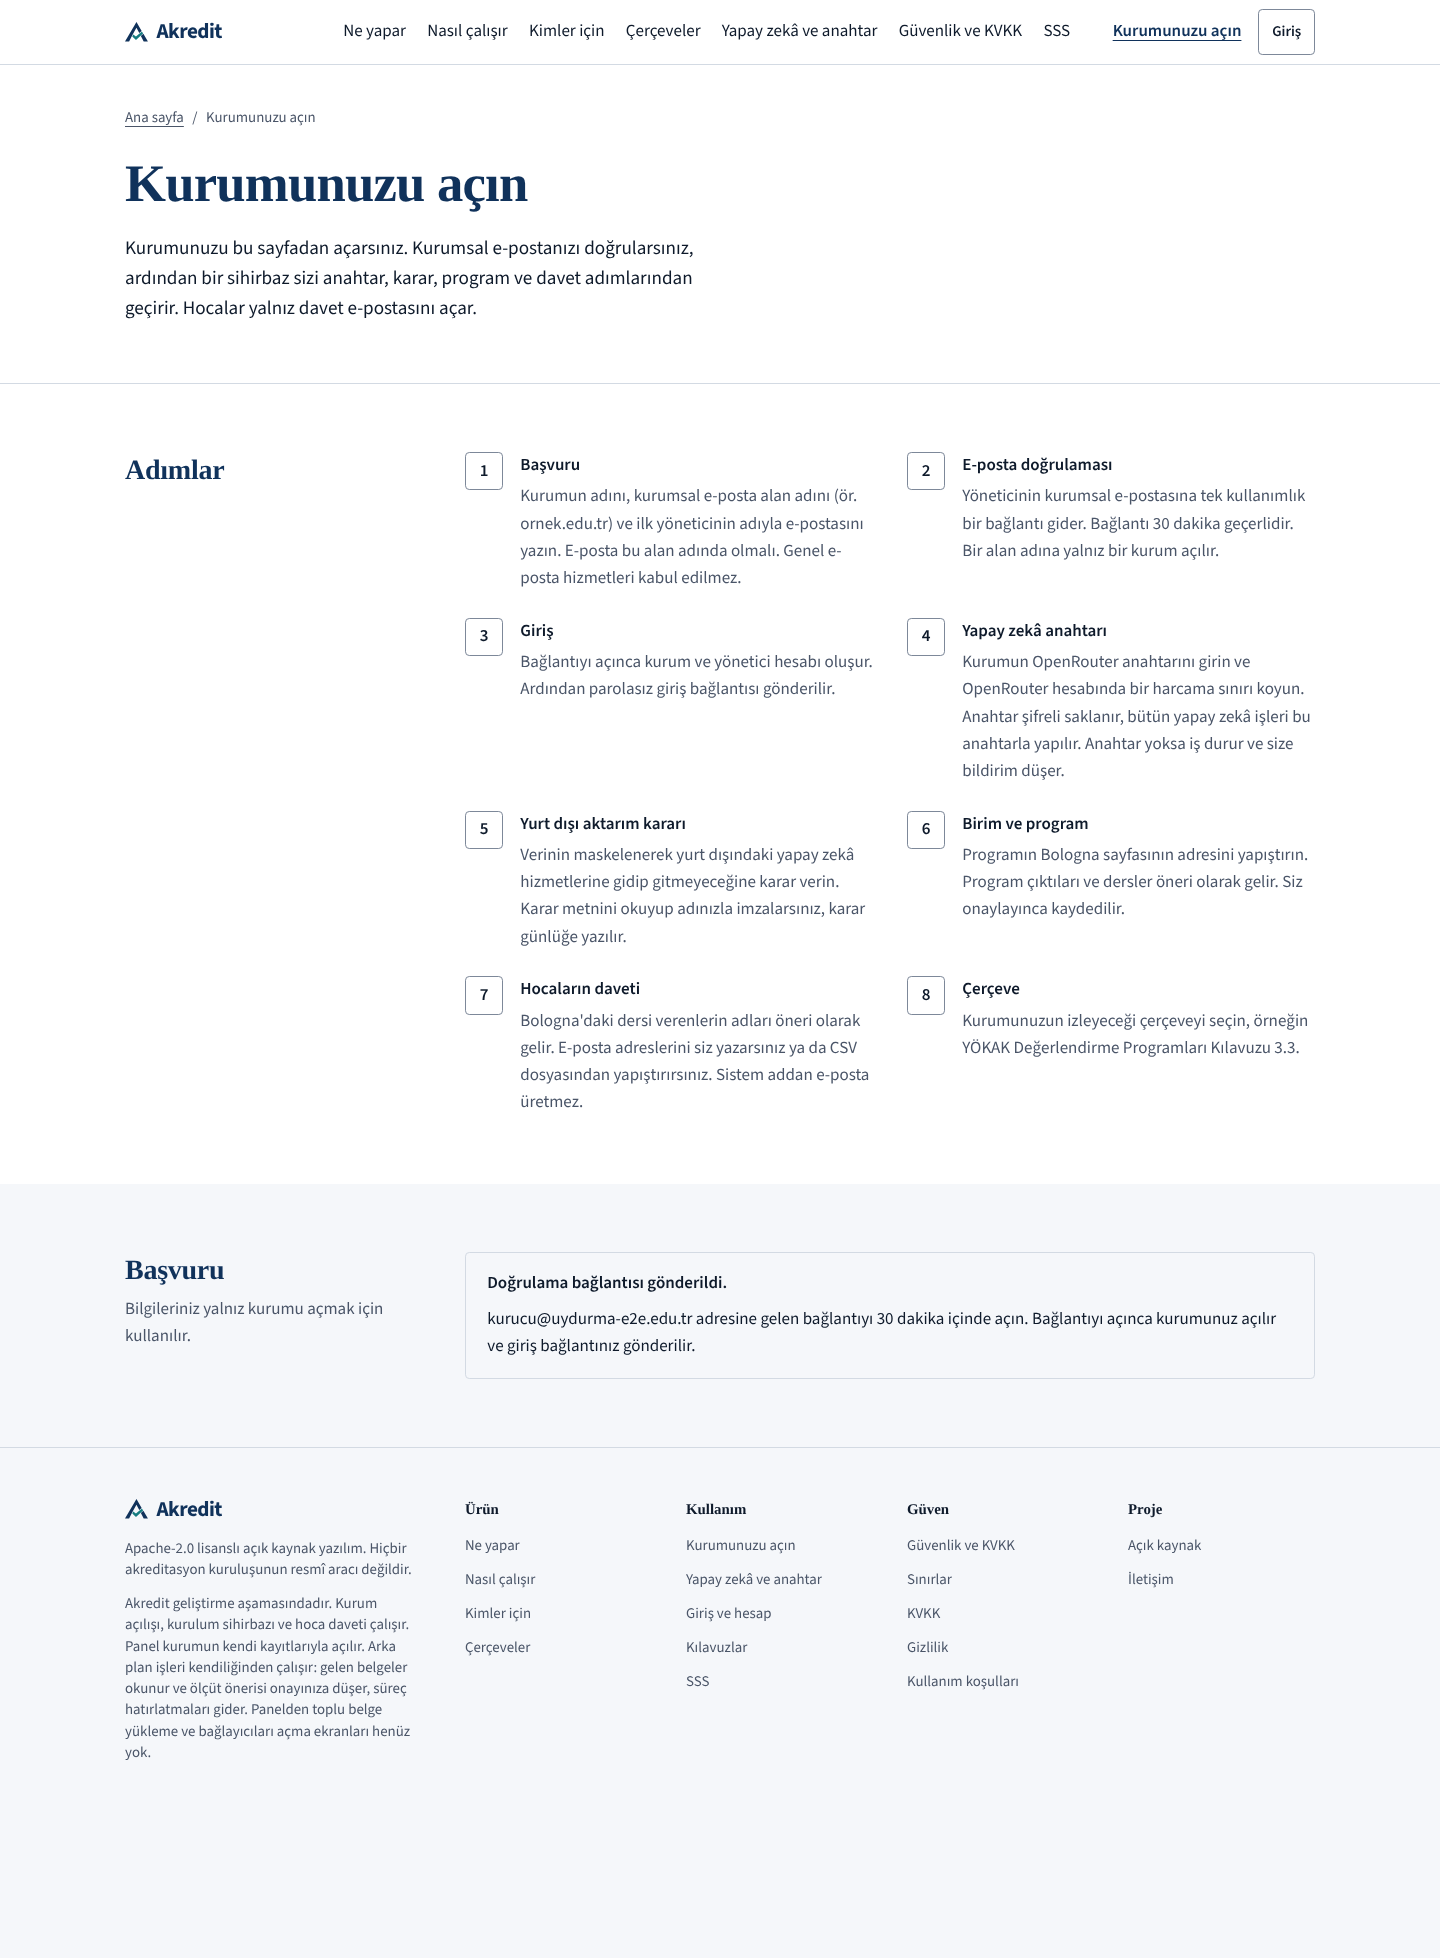
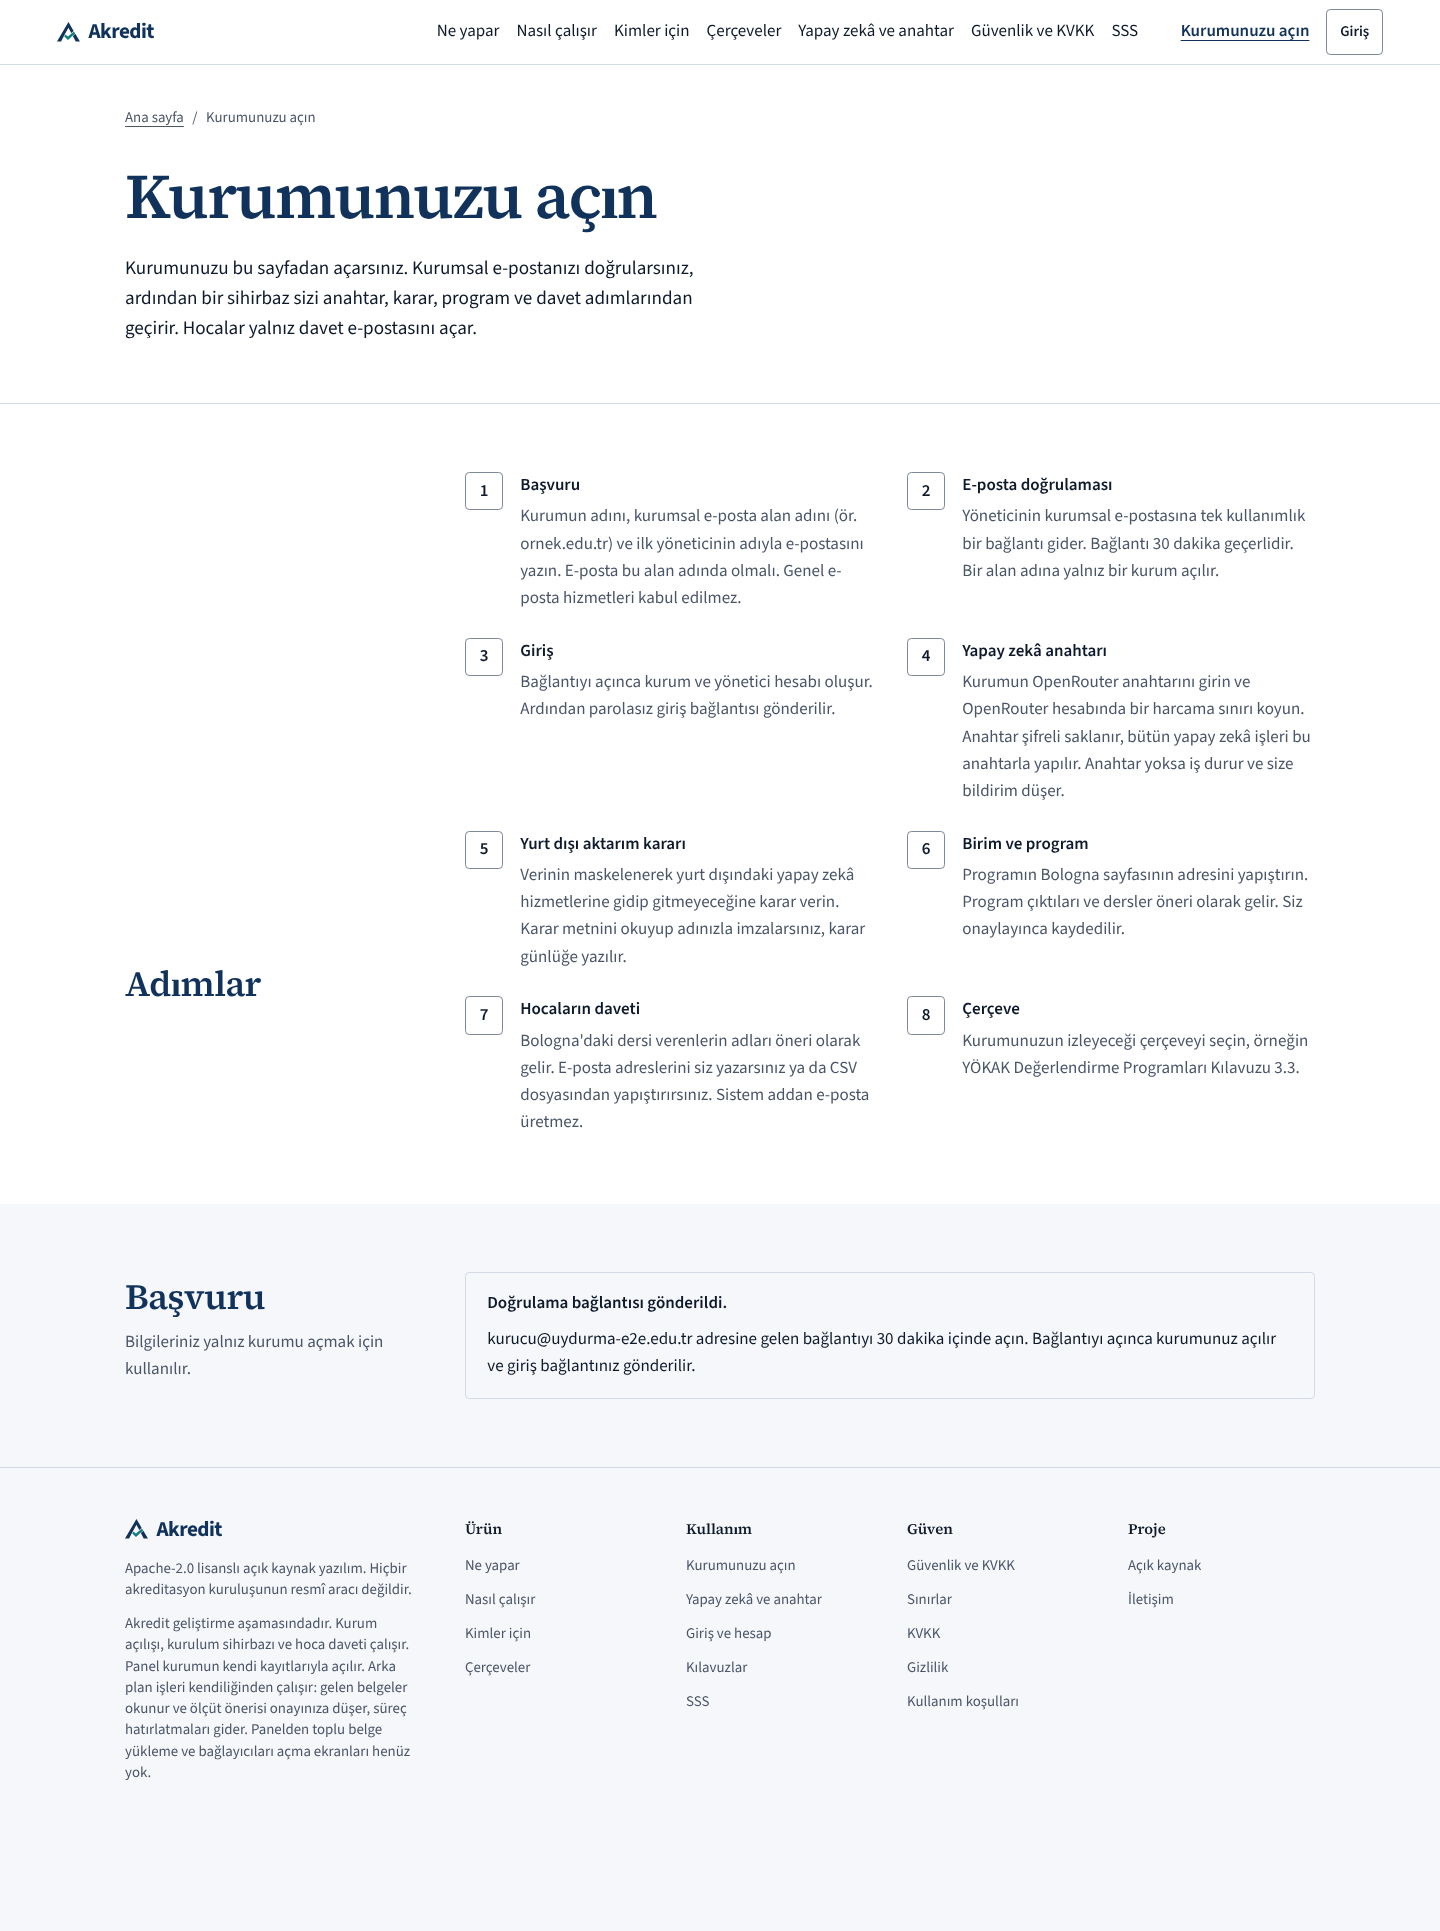
Tasarım v2 kararlarını yaz, hareket ve dayanak vurgusunu sına

diff --git a/apps/web/src/site/site.test.ts b/apps/web/src/site/site.test.ts
@@ -1,4 +1,6 @@
 // Site içeriğinin koddaki gerçekle tutarlılığı ve yapılandırılmış veri.
+import { readFileSync } from "node:fs";
+import { join } from "node:path";
 import { ROLLER } from "@akredit/yetki";
 import { describe, expect, it } from "vitest";
 import { yokakOzeti } from "./cerceve-ozeti.ts";
@@ -58,5 +60,19 @@ describe("üst veri", () => {
     expect(turler).toEqual(["Organization", "BreadcrumbList", "FAQPage"]);
     expect(j["@graph"][2].mainEntity).toHaveLength(SSS.length);
     expect(yapisalVeri({ ...SAYFALAR.sss, ad: "</script>" })).not.toContain("</script>");
+  });
+});
+
+describe("hareket ve önizleme (tasarım v2)", () => {
+  const css = readFileSync(join(import.meta.dirname, "../app/globals.css"), "utf8");
+  it("önizleme hareketi, hareket azaltma tercihinde kapanır ve son durumu gösterir", () => {
+    const azalt = css.slice(css.indexOf("@media (prefers-reduced-motion: reduce)"));
+    for (const sinif of [".onizleme-kart", ".onizleme-onaylandi", ".onizleme-gunluk", ".onizleme-bekliyor"])
+      expect(azalt).toContain(sinif);
+    expect(azalt).toMatch(/\.onizleme-bekliyor\s*\{[^}]*visibility:\s*hidden/u);
+  });
+  it("dayanak vurgusu her dayanak numarası için tanımlı (1-9)", () => {
+    for (let n = 1; n <= 9; n++)
+      expect(css).toContain(`a[href="#dayanak-${n}"]:is(:hover, :focus-visible)) #dayanak-${n}`);
   });
 });

diff --git a/docs/tasarim/README.md b/docs/tasarim/README.md
@@ -81,7 +81,54 @@ alt metin ve adsız SVG, sol vurgu şeridi, koyu tema. `apps/web/src/site/site.t
 çerçeve sayıları, özgün başlık ve açıklama, canonical, JSON-LD. `apps/web/src/marka/kontrast.test.ts`: açık temadaki
 bütün renk çiftleri. `apps/web/e2e/erisilebilirlik.spec.ts`: axe ile WCAG 2.2 AA.
 
+## Tasarım v2: "bir tık daha etkileyici" (2026-10-28)
+
+Amaç: aynı palet, aynı iki yazı tipi, aynı imza öğesi (§, [n]) ile daha cesur bir ilk ekran. Kural kümesi değişmedi:
+açık tema, sol şerit yok, gradyan/cam/parıltı yok, gölge yok, köşe 2-4 px.
+
+- **Tipografik ölçek:** ana sayfa h1 2,6 → 4,35 rem (satır aralığı 1,03, harf aralığı -0,03 em); alt sayfa h1
+  3,75 rem; bölüm h2 2,1 rem. Hiyerarşiyi renk ya da süs değil, boy farkı taşır (kontrol listesi 14).
+- **Kahramanda gerçek ürün:** günlük kaydının yerine paneldeki öneri kartının sadeleştirilmiş çizimi
+  (`src/site/onay-onizleme.tsx`): risk etiketi, ÇK sağlanma hesabı (%71,4; eşik %60,0; 58 öğrenci), dayanak ve
+  içerik özeti, Onayla/Düzelt/Reddet. "Örnek veri" diye etiketli (kontrol listesi 18, 104).
+- **Anlam taşıyan hareket:** yükleme sonrası bir kez, yalnız CSS ile: Onayla basılır, durum "Onay bekliyor" →
+  "Onaylandı" olur, kart çerçevesi petrole döner, "Günlüğe eklendi" satırı eklenir. Ürünün tek cümlelik anlatısı budur
+  (kontrol listesi 17). `prefers-reduced-motion` tercihinde hiç oynamaz, son durum doğrudan görünür; ekran okuyucu son
+  durumu okur ("Onay bekliyor" `aria-hidden`). İstemci betiği eklenmedi.
+- **Dayanak vurgusu:** metindeki `[n]` üzerine gelince ya da klavyeyle odaklanınca sayfa sonundaki dipnot petrol
+  zeminle belirir, dipnota gelince metindeki numara belirir. Yalnız CSS `:has()`; betik yok.
+- **Ölçü şeridi (`Olculer`):** eşit genişlikli serif rakamlarla koddan sayılmış değerler: 14 ölçüt ve 46 alt ölçüt
+  (`yokakOzeti()`, `site.test.ts` sabitler), 6 adım (`AKIS`), örnek dönemdeki dokunuş (`DONEM_AKISI`). Her rakamın
+  yanında dayanak numarası. Ne yapar ve nasıl çalışır sayfa başlarında aynı şerit künye olarak durur. Rakamlar
+  `.sayilar` ve tablolarda `tabular-nums`.
+- **Belge ızgarası:** ilk ekranın arkasında, yalnız geniş ekranda, içerik ızgarasıyla hizalı on iki sütunluk ince
+  çizgiler (çizgi rengi %45). Yönetmelik ve rapor sayfasının dizgi ızgarası; süstür, `aria-hidden`.
+- **Bilinçli kırılmış ızgara:** ilk ekran 7/5 sütun; önizleme 5 rem aşağıdan başlar. Bölüm başlık sütunu geniş ekranda
+  yapışkandır (kenar notu gibi) ve § numarasının üstünde ince bir kural çizgisi vardır.
+- **Mikro etkileşim:** bağlantı altı çizgisi üzerine gelince 1 → 2 px; modül bağlantılarında çerçeve ve yazı
+  lacivertleşir, dokunma hedefi 44 px. Bütün geçişler tek eğriyle: `--egri: cubic-bezier(0.32, 0.72, 0, 1)`.
+
+### elayadesign/ai-design-skills'ten alınan ve alınmayan
+
+Kaynak: `skills/landing-page-design/SKILL.md`. Kontrol listesiyle çelişen her yerde kontrol listesi kazandı.
+
+Alınan: tek özel hareket eğrisi (`cubic-bezier(0.32,0.72,0,1)`, "varsayılan geçiş yok"); kahramanda gerçek ürün
+görseli ve kanıtın iddianın yanında durması ("proof next to the claim"); içerik gerçekçiliği (yuvarlak olmayan
+sayılar: %71,4, 58; uydurma marka yok); başlıkta `text-wrap: balance` (zaten vardı); tek kenarlı kart çerçevesi yasağı
+(bizdeki sol şerit yasağıyla aynı yönde); basılı durum için 1 px aşağı kayma (önizlemedeki Onayla); tek birincil
+eylem.
+
+Alınmayan, neden: Geist/Manrope/Poppins yazı tipleri (Manrope ve Poppins kontrol listesi 26'da yasak; Source ailesi
+korunur); başlıkta metin gradyanı ve cam menü, tam ekran bulanık menü (madde 27); kaydırmada bulanıklıktan beliren
+bölümler ve kelime kelime parlayan "tagline reveal" (süs hareketi, madde 17; ayrıca betik gerektirir); italik yasağı
+ve yalnız Tailwind adımlarına bağlı boyut tablosu (serif başlık ölçeği kendi oranıyla seçildi); kart içi iç içe köşe
+kuralı (köşelerimiz 2-4 px); risk tersine çevirme ve SSS'nin ana sayfaya taşınması (ayrı SSS sayfası var, garanti
+dili madde 105'e göre yok).
+
 ## Ekran görüntüleri
+
+Tasarım v2 öncesi ve sonrası: `docs/tasarim/ekranlar/{ana-sayfa,ne-yapar,nasil-calisir}-v2-{once,sonra}-{375,768,1440}.png`.
+Betik isteğe bağlı ikinci argümanla dosya adına ek koyar (`node apps/web/scripts/ekran-goruntusu.ts <adres> -v2-sonra`).
 
 `docs/tasarim/ekranlar/`: `ana-sayfa`, `ne-yapar`, `nasil-calisir`, `panel`, `onay-kutusu`; her biri 375, 768 ve
 1440 px. Yeniden üretmek: `AKREDIT_ORNEK_VERI=1 pnpm --filter @akredit/web build`, sunucuyu 3108'de açıp
